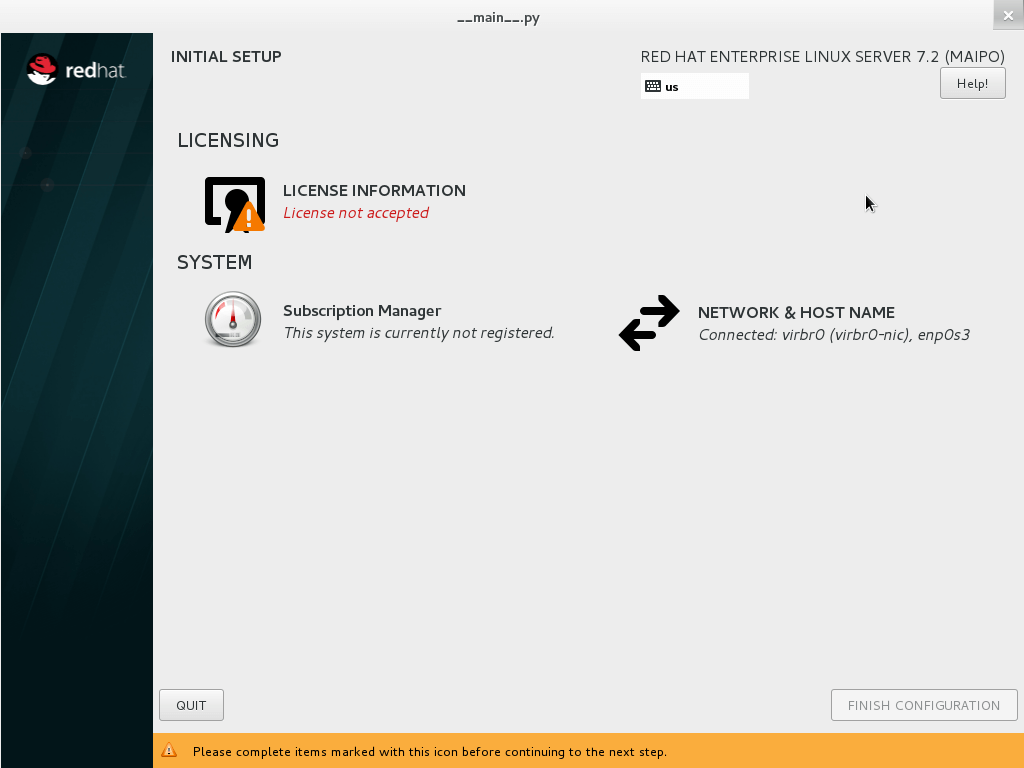
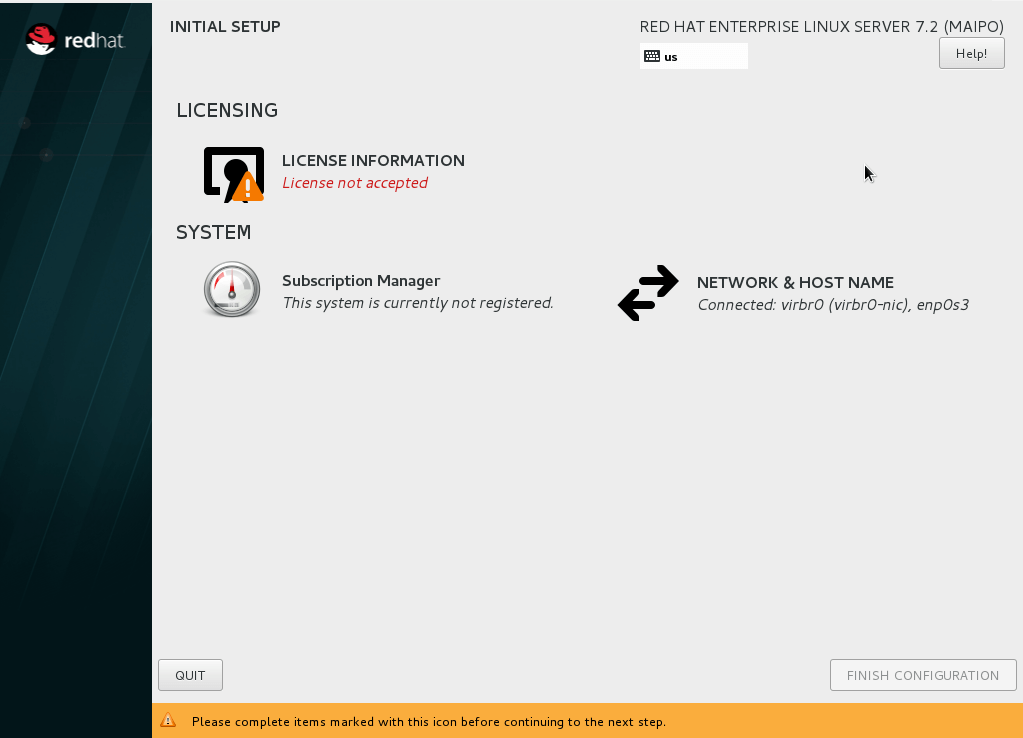
DEVELOPER-2472 RHEL Get Started content updates

diff --git a/stylesheets/_products.scss b/stylesheets/_products.scss
@@ -755,6 +755,11 @@ ul.product-langs {
 }
 
 #get-started-instructions.rhel-custom {
+  img {
+    margin-top: 15px;
+    margin-bottom: 20px;
+    max-width: 540px;
+  }
   .card {
     padding: 22px 15px;
     min-height: 166px;
